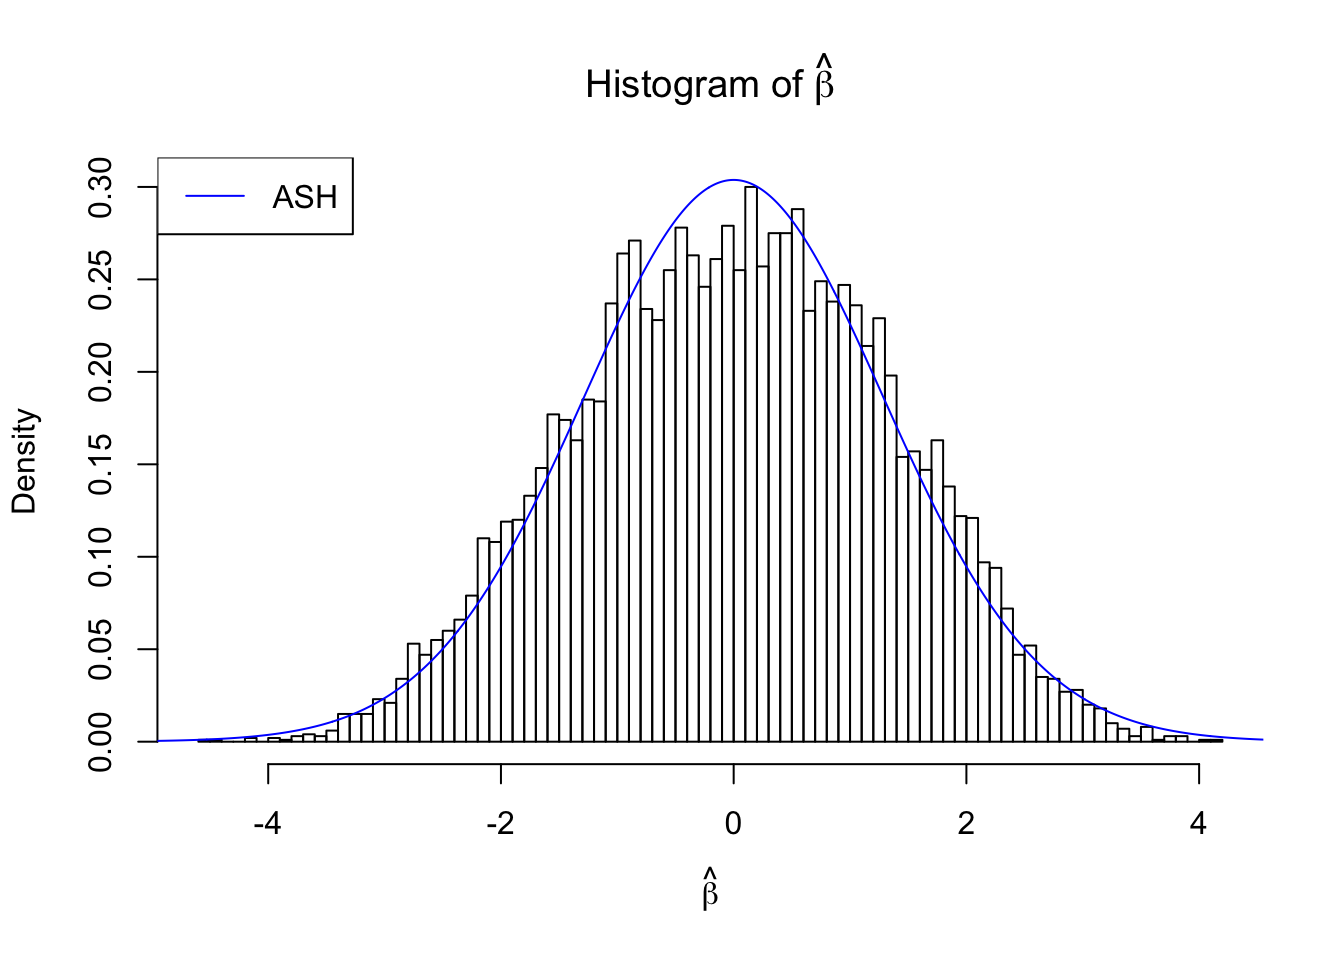
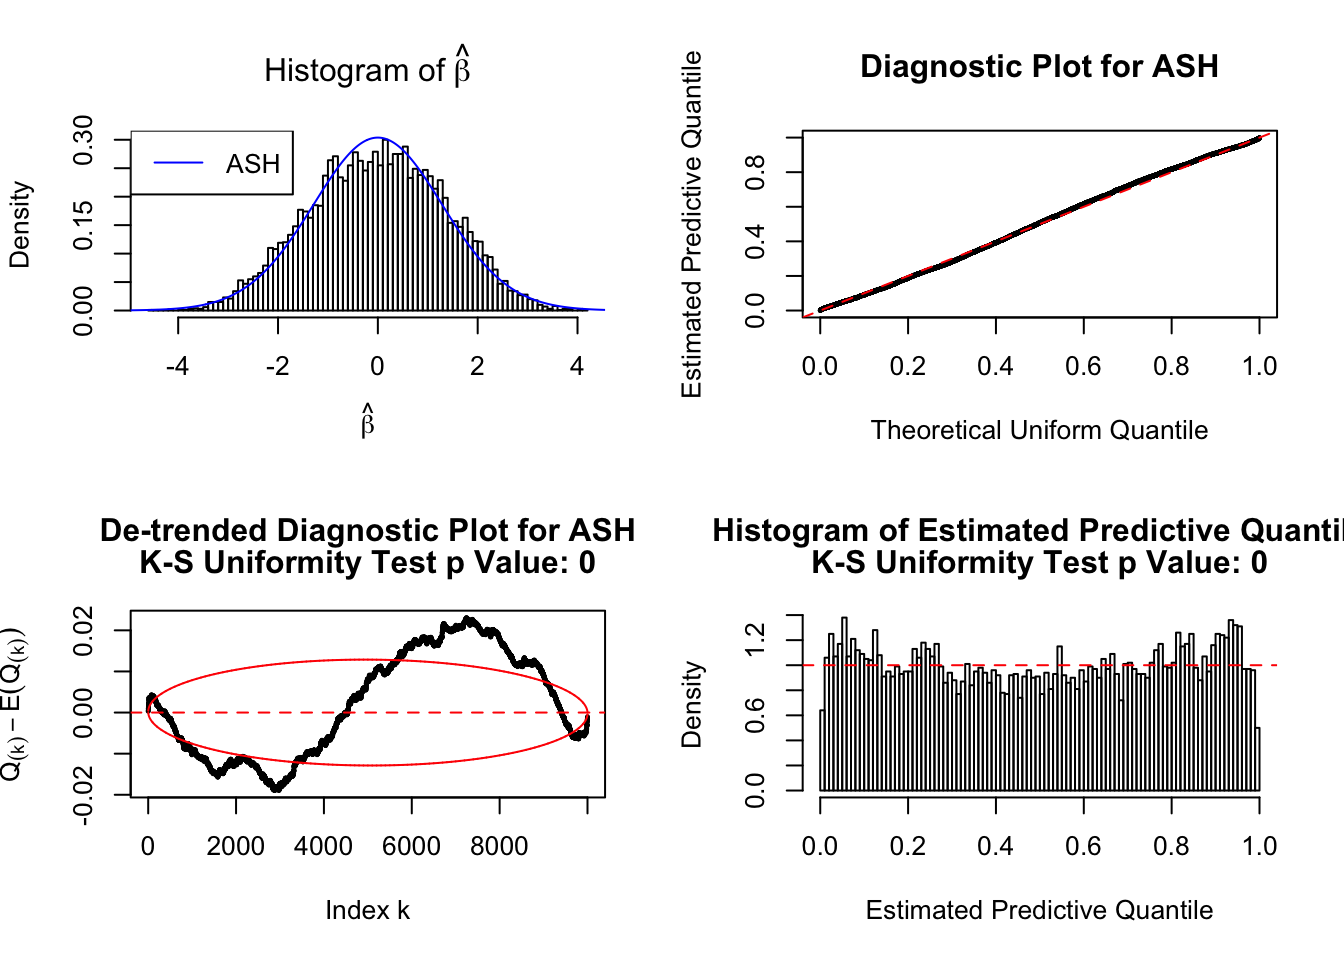
presentation

diff --git a/docs/plot_diagnostic.html b/docs/plot_diagnostic.html
@@ -313,12 +313,19 @@ div.tocify {
 shared across the workflowr files. -->
 <!-- Update knitr chunk options -->
 <!-- Insert the date the file was last updated -->
-<p><strong>Last updated:</strong> 2017-05-12</p>
+<p><strong>Last updated:</strong> 2017-05-14</p>
 <!-- Insert the code version (Git commit SHA1) if Git repository exists and R
  package git2r is installed -->
-<p><strong>Code version:</strong> fd54c84</p>
+<p><strong>Code version:</strong> 370acc9</p>
 <!-- Add your analysis here -->
-<pre class="r"><code>library(ashr)</code></pre>
+<div id="introduction" class="section level2">
+<h2>Introduction</h2>
+<p>This file documents some simulations done for a May 12, 2017, NHS presentation on the diagnostic plots for ASH implemented by <code>ashr::plot_diagnostic()</code>.</p>
+<pre class="r"><code>library(ashr)
+library(qvalue)</code></pre>
+</div>
+<div id="the-concept-of-a-q-q-plot" class="section level2">
+<h2>The concept of a Q-Q plot</h2>
 <pre class="r"><code>set.seed(777)
 x = rnorm(100)
 qqnorm(x)
@@ -328,6 +335,9 @@ qqline(x)</code></pre>
 qqnorm(y)
 qqline(y)</code></pre>
 <p><img src="figure/plot_diagnostic.rmd/unnamed-chunk-2-2.png" width="672" style="display: block; margin: auto;" /></p>
+</div>
+<div id="diagnostic-plots-for-ash-applied-to-different-data-sets" class="section level2">
+<h2>Diagnostic plots for <code>ASH</code> applied to different data sets</h2>
 <pre class="r"><code>beta = runif(10000)
 betahat = beta + rnorm(10000)
 fit = ash(betahat, 1, mixcompdist = &quot;normal&quot;, method = &quot;fdr&quot;)
@@ -354,24 +364,36 @@ plot_diagnostic(fit, breaks = 100)</code></pre>
 <pre><code>Press [enter] to see next plot</code></pre>
 <pre><code>Press [enter] to see next plot</code></pre>
 <p><img src="figure/plot_diagnostic.rmd/unnamed-chunk-3-6.png" width="672" style="display: block; margin: auto;" /></p>
+</div>
+<div id="the-peculiarities-of-the-correlated-null" class="section level2">
+<h2>The peculiarities of the correlated null</h2>
 <pre class="r"><code>z = readRDS(&quot;../output/z_null_liver_777_select.RDS&quot;)
 z = z$typical[[5]]
+
 hist(z, breaks = 100, prob = TRUE, xlab = &quot;Correlated N(0, 1) Z Scores&quot;, ylim = c(0, dnorm(0)), main = &quot;Histogram of Correlated Z Scores&quot;)
 lines(seq(-6, 6, 0.01), dnorm(seq(-6, 6, 0.01)), col = &quot;red&quot;)</code></pre>
 <p><img src="figure/plot_diagnostic.rmd/unnamed-chunk-4-1.png" width="672" style="display: block; margin: auto;" /></p>
 <pre class="r"><code>hist(z, breaks = 100, prob = TRUE, xlab = &quot;Correlated N(0, 1) Z Scores&quot;, ylim = c(0, 0.1), main = &quot;Histogram of Correlated Z Scores: Left Tail&quot;, xlim = c(-5, -2.5))
 lines(seq(-6, 6, 0.01), dnorm(seq(-6, 6, 0.01)), col = &quot;red&quot;)</code></pre>
 <p><img src="figure/plot_diagnostic.rmd/unnamed-chunk-4-2.png" width="672" style="display: block; margin: auto;" /></p>
+<pre class="r"><code>pval = (1 - pnorm(abs(z))) * 2
+q = qvalue(pval)
+hist(pval, breaks = 100, main = &quot;Histogram of Correlated Z Scores&#39; p-values&quot;, xlab = &quot;p-values&quot;, prob = TRUE)
+abline(h = q$pi0, col = &quot;red&quot;, lty = 2)
+legend(&quot;topright&quot;, lty = 2, col = &quot;red&quot;, expression(paste(hat(pi)[0], &quot; by qvalue&quot;)))</code></pre>
+<p><img src="figure/plot_diagnostic.rmd/unnamed-chunk-4-3.png" width="672" style="display: block; margin: auto;" /></p>
+</div>
+<div id="diagnostic-plots-for-ash-applied-to-the-correlated-null." class="section level2">
+<h2>Diagnostic plots for <code>ASH</code> applied to the correlated null.</h2>
 <pre class="r"><code>library(ashr)
 fit = ashr::ash(z, 1, mixcompdist = &quot;normal&quot;, method = &quot;fdr&quot;)
+par(mfrow = c(2, 2))
 plot_diagnostic(fit, breaks = 100)</code></pre>
+<pre><code>Press [enter] to see next plot</code></pre>
+<pre><code>Press [enter] to see next plot</code></pre>
+<pre><code>Press [enter] to see next plot</code></pre>
 <p><img src="figure/plot_diagnostic.rmd/unnamed-chunk-5-1.png" width="672" style="display: block; margin: auto;" /></p>
-<pre><code>Press [enter] to see next plot</code></pre>
-<p><img src="figure/plot_diagnostic.rmd/unnamed-chunk-5-2.png" width="672" style="display: block; margin: auto;" /></p>
-<pre><code>Press [enter] to see next plot</code></pre>
-<p><img src="figure/plot_diagnostic.rmd/unnamed-chunk-5-3.png" width="672" style="display: block; margin: auto;" /></p>
-<pre><code>Press [enter] to see next plot</code></pre>
-<p><img src="figure/plot_diagnostic.rmd/unnamed-chunk-5-4.png" width="672" style="display: block; margin: auto;" /></p>
+</div>
 <div id="session-information" class="section level2">
 <h2>Session information</h2>
 <!-- Insert the session information into the document -->
@@ -387,19 +409,22 @@ attached base packages:
 [1] stats     graphics  grDevices utils     datasets  methods   base     
 
 other attached packages:
-[1] ashr_2.1-10
+[1] qvalue_2.4.2 ashr_2.1-10 
 
 loaded via a namespace (and not attached):
  [1] Rcpp_0.12.10      knitr_1.15.1      magrittr_1.5     
- [4] REBayes_0.62      MASS_7.3-45       doParallel_1.0.10
- [7] pscl_1.4.9        SQUAREM_2016.10-1 lattice_0.20-34  
-[10] foreach_1.4.3     stringr_1.2.0     tools_3.3.3      
-[13] parallel_3.3.3    grid_3.3.3        git2r_0.18.0     
-[16] htmltools_0.3.5   iterators_1.0.8   assertthat_0.1   
-[19] yaml_2.1.14       rprojroot_1.2     digest_0.6.11    
-[22] Matrix_1.2-8      codetools_0.2-15  evaluate_0.10    
-[25] rmarkdown_1.3     stringi_1.1.2     Rmosek_7.1.3     
-[28] backports_1.0.5   truncnorm_1.0-7  </code></pre>
+ [4] REBayes_0.62      splines_3.3.3     MASS_7.3-45      
+ [7] munsell_0.4.3     doParallel_1.0.10 pscl_1.4.9       
+[10] colorspace_1.2-6  SQUAREM_2016.10-1 lattice_0.20-34  
+[13] foreach_1.4.3     plyr_1.8.3        stringr_1.2.0    
+[16] tools_3.3.3       parallel_3.3.3    grid_3.3.3       
+[19] gtable_0.2.0      git2r_0.18.0      htmltools_0.3.5  
+[22] iterators_1.0.8   assertthat_0.1    yaml_2.1.14      
+[25] rprojroot_1.2     digest_0.6.11     Matrix_1.2-8     
+[28] reshape2_1.4.1    ggplot2_2.1.0     codetools_0.2-15 
+[31] evaluate_0.10     rmarkdown_1.3     stringi_1.1.2    
+[34] Rmosek_7.1.3      scales_0.4.0      backports_1.0.5  
+[37] truncnorm_1.0-7  </code></pre>
 </div>
 
 <hr>
